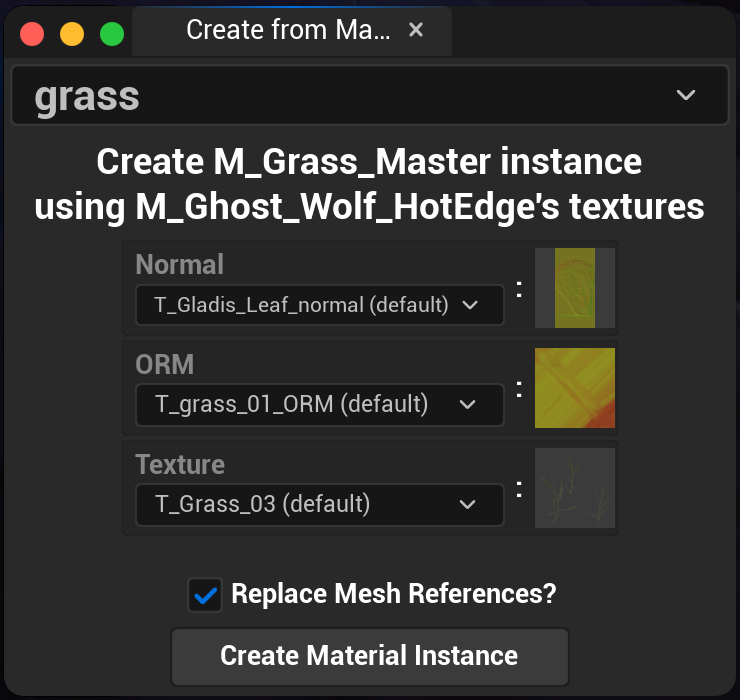
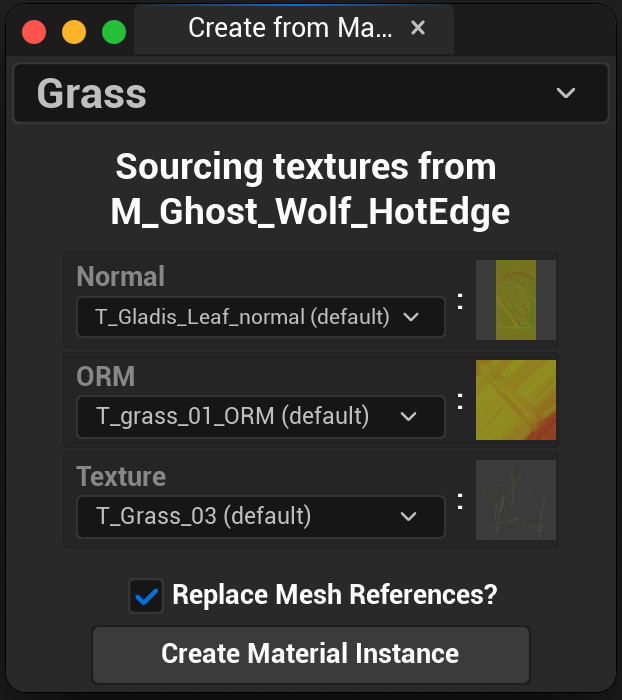
readme update + typo fix

diff --git a/Plugin/MasterMaterialSystem/Content/Python/master_materials/menus.py b/Plugin/MasterMaterialSystem/Content/Python/master_materials/menus.py
@@ -72,7 +72,7 @@ class UserInputField(unreal.Object):
 
     display_name = unreal.uproperty(
         str,
-        dict(ToolTip="The display name to use for this master material in the Right Click Menu")
+        dict(tool_tip="The display name to use for this master material in the Right Click Menu")
     )
 
     def __init__(self):
@@ -83,7 +83,7 @@ class UserInputField(unreal.Object):
 class ToggleMasterMaterial(PythonMenuTool):
     tool_name = "MarkAsMasterMaterial"
     tool_display_name = "Mark As Master Material"
-    tooltip = "Set or Unset this material as a Master Material"
+    tool_tip = "Set or Unset this material as a Master Material"
     material = unreal.uproperty(unreal.MaterialInterface)
 
     @unreal.ufunction(override=True)
@@ -185,7 +185,7 @@ class ApplyMasterMaterial(PythonMenuTool):
         )
         self.material = material
         self.display_name = assets.get_metadata(material, constants.META_MATERIAL_DISPLAY_NAME, material.get_name())
-        self.tooltip = f"create a new Material Instance of {self.tool_name}"
+        self.tool_tip = f"create a new Material Instance of {self.tool_name}"
 
         if menu:
             self.init_entry(
@@ -194,7 +194,7 @@ class ApplyMasterMaterial(PythonMenuTool):
                 section,
                 self.tool_name,
                 self.display_name,
-                self.tooltip
+                self.tool_tip
             )
             menu.add_menu_entry_object(self)
 

diff --git a/README.md b/README.md
@@ -7,7 +7,7 @@ A Master Material System plugin for UE5<br>
 created by <a href="https://www.linkedin.com/in/bkortbus/">Brian Kortbus</a>
 <br>
 <br>
-<a href="https://youtu.be/N3x0DmapOGM?si=rGmjLR0NFCg_zPeJ">Youtube Demo Video</a>
+<a href="https://youtu.be/5u_jgtToYwE">Youtube Demo Video</a>
 
 </p>
 <br>
@@ -16,13 +16,21 @@ created by <a href="https://www.linkedin.com/in/bkortbus/">Brian Kortbus</a>
 ## Overview
 <ul>
 
+Master Materials are parent materials we wish to make Material Instances of to use on our assets in Unreal. 
+Using Material Instances can greatly improve material performance and can streamline the customization
+of common materials for all of our unique assets. To learn more about Material Instances, 
+[the Epic docs provide a good overview of Material Instances](
+https://docs.unrealengine.com/5.3/en-US/instanced-materials-in-unreal-engine/
+).
+
 This plugin adds a Master Material system to the Content Browser's right click menu. Materials may be
 registered or unregistered as Master Materials in this system. With a Master Material registered, this
 toolset adds a right click menu option to create new Material Instances in any Content Browser folder.
 
 With another material selected, we can also apply a Master Material to that material. This provides an
-editor tool window to transfer textures over to the new Material Instance as well as the option to update
-references to use the new Material Instance.
+editor tool window in which we may transfer textures to the new Material Instance's parameter slots. 
+This window also provides an option to update any Static or Skeletal Meshes to use this new Material
+Instance.
 
 </ul><br><br>
 
@@ -81,16 +89,16 @@ This will quickly create a new MI in the current Content Browser folder that we 
 
 <ul>
 
-A more interactive toolset is the ability to apply a Master Material to another material. This gives us the option
-to transfer textures over to the new Material Instance and the option to update any uses of the old material to use
-the newly created Material Instance:
+A more interactive feature is the ability to apply a Master Material to another material. This gives us the option
+to transfer textures over to the new Material Instance and the option to update any assets using the old material to
+use the newly created Material Instance:
 
 <img src="resources/MM_apply_master_material.gif" width="600">
 
 Applying a Master Material will create a new Material Instance of the desired Master Material next
 to the selected material in the Content Browser that we want to replace.
 
-A popup window will let us transfer any textures over to this new Material Instance's texture parameters
+A tool window will let us transfer any textures over to this new Material Instance's texture parameters
 from the old material:
 
 <ul>
@@ -98,8 +106,8 @@ from the old material:
 </ul>
 
 Each Texture Parameter will have a slot in the UI. Use the dropdown menu for each texture parameter slot
-to transfer a texture from the material we're replacing. Clicking on a texture icon preview will focus the 
-Content Browser to that texture.
+to transfer a texture from the material we're replacing. The texture marked with `(default)` is the Master
+Material's default parameter value, all other textures in the dropdown menu are sourced from the old material.
 
 <br>
 
@@ -135,11 +143,11 @@ We can also apply a Master Material to a Material Instance as well! Using the re
 of the previous section, here is the window if we apply a Master Material to that Material Instance:
 
 <ul>
-<img src="resources/MM_applying_on_a_MI.png" width="450">
+<img src="resources/MM_applying_on_a_MI.png" width="350">
 </ul>
 
 When transferring textures from a Material Instance it will use the parameter names instead of the texture names.
-In this case we are transferring textures from the old material's parameter slot to the new material's parameter slot,
+In this case we are transferring from the old material's parameter slots to the new material's parameter slots,
 focusing on the use of the texture rather than its file name.
 
 </ul><br><br>
@@ -159,5 +167,22 @@ the `Unregister` option:
 
 This will not delete the material or change any existing assets beyond removing it from the list
 of available Master Materials.
+
+</ul><br><br>
+
+
+
+## Update Log
+
+<ul>
+
+4 November 2023
+
+<ul>
+
+- updated README
+- fixed tooltip typo
+</ul>
+
 
 </ul><br><br>
